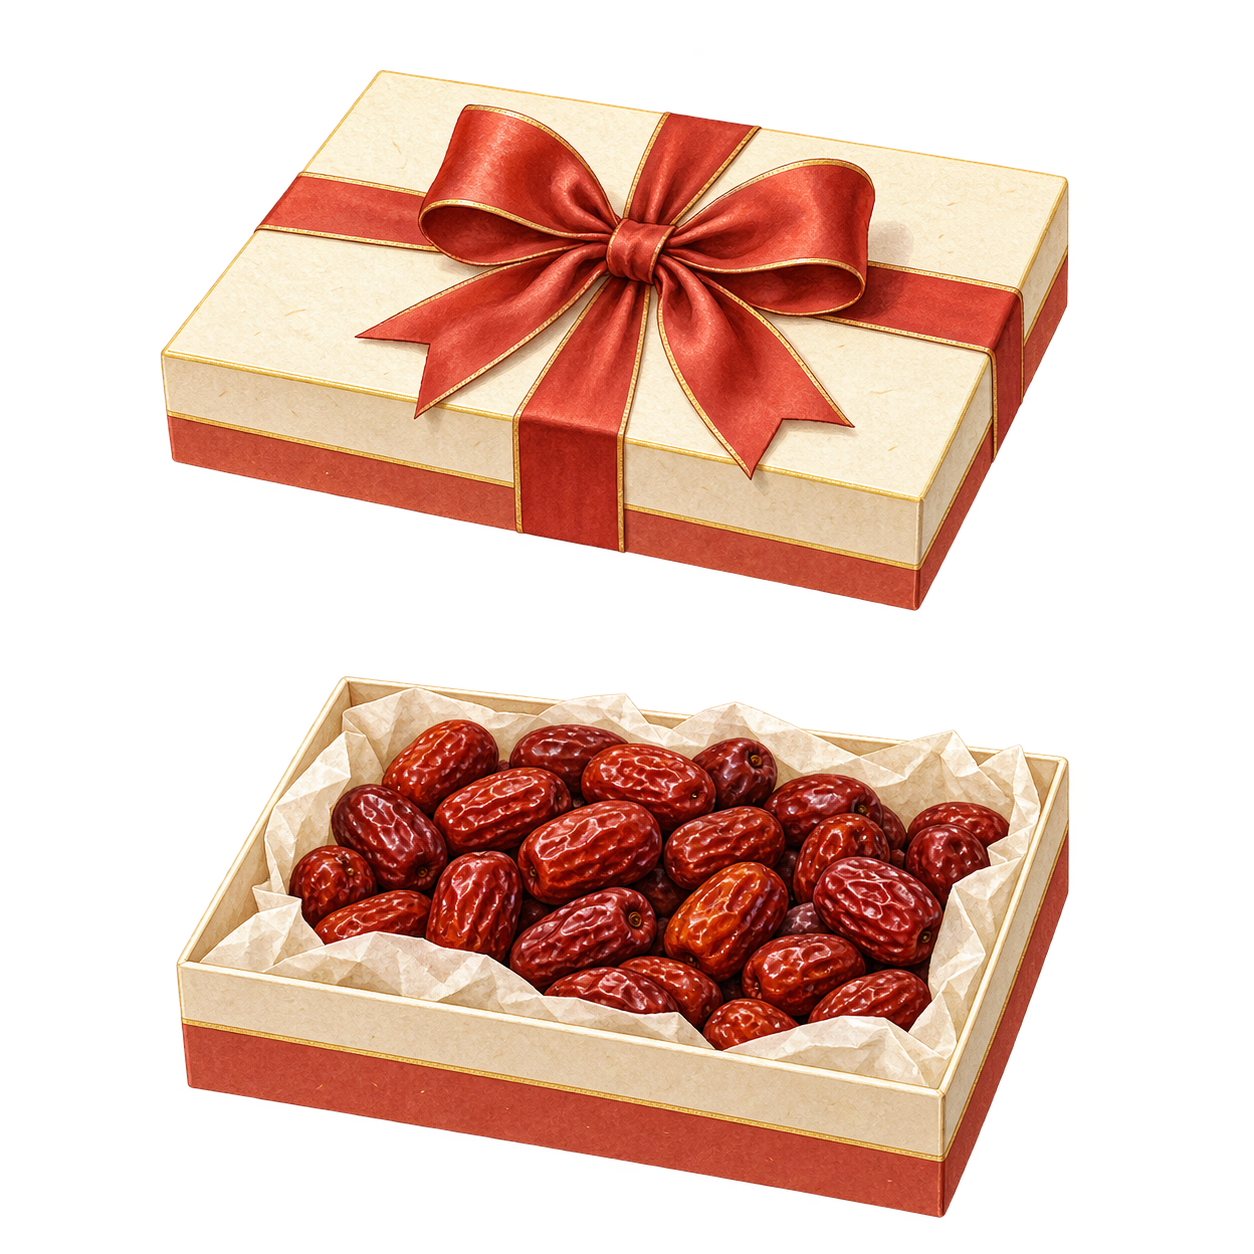
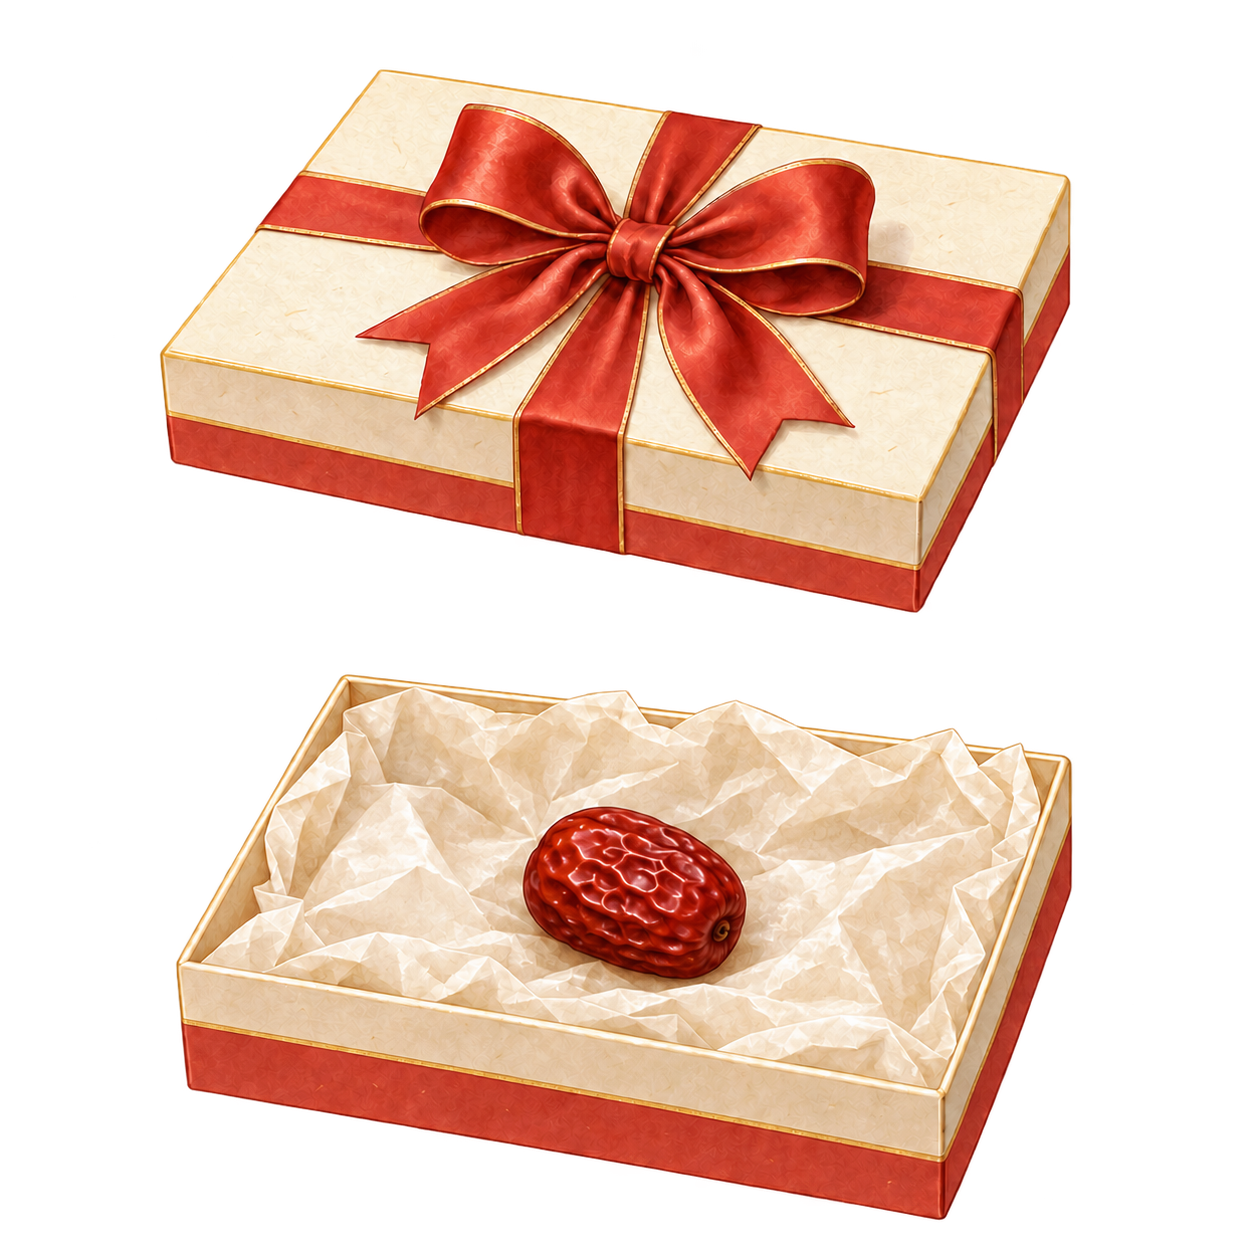
Show one red date in gift scenes

diff --git a/lib/jujube-viewer.ts b/lib/jujube-viewer.ts
@@ -188,18 +188,9 @@ export function createJujubeViewer(host: HTMLElement, options: Options) {
       if (geometries.size === 0) throw new Error('Empty gift model');
       const normalized = new Group();
       normalized.add(model);
-      normalized.scale.setScalar(2.05 / longestSide);
-      for (const [x, y, z, scale, tilt] of [
-        [-0.85, -0.14, 0, 0.85, -0.5],
-        [0, 0.25, -0.1, 1, 0.16],
-        [0.9, -0.2, 0.15, 0.82, 0.6],
-      ]) {
-        const fruit = normalized.clone(true);
-        fruit.position.set(x, y, z);
-        fruit.scale.multiplyScalar(scale);
-        fruit.rotation.set(0.15, x * 1.4, tilt);
-        dates.add(fruit);
-      }
+      normalized.scale.setScalar(3.25 / longestSide);
+      normalized.rotation.set(0.12, 0, -0.08);
+      dates.add(normalized);
       // Check the imported geometry is finite before giving it to WebGL.
       const bounds = new Box3().setFromObject(dates);
       if (!Number.isFinite(bounds.max.x))
